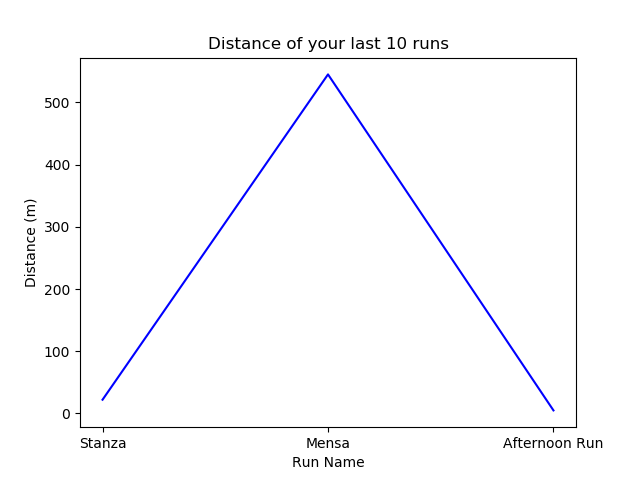
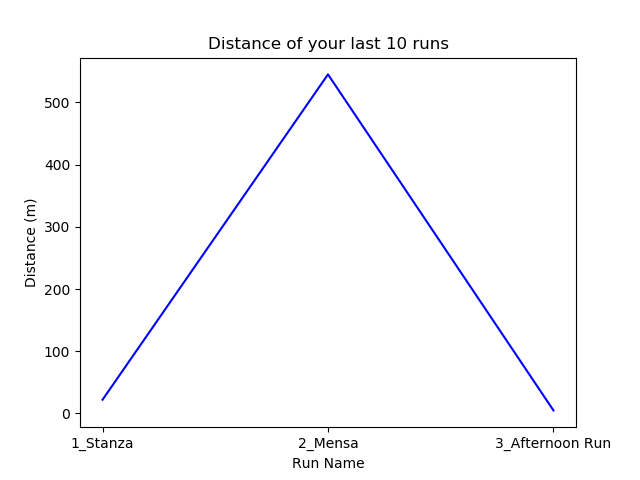
Fixed different run names overlapping in case they have same name by concatenating run names with their ID

Changed region(s): [[0.4375, 0.9062, 0.5625, 0.9688], [0.7812, 0.9062, 0.9688, 0.9375], [0.0938, 0.9062, 0.2188, 0.9375]]

diff --git a/monolith/views/statistics.py b/monolith/views/statistics.py
@@ -34,7 +34,7 @@ def stats():
     average_heartrates = []
     total_elevation_gains = []
     elapsed_times = []
-
+    run_ids = []
 
     runner_id = current_user.id
 
@@ -51,6 +51,12 @@ def stats():
                 total_elevation_gains.append(run.total_elevation_gain)
                 elapsed_times.append(run.elapsed_time)
                 run_names.append(run.name)
+                run_ids.append(run.id)
+
+
+                run_names_concatenated = concatenate_run_name_id(run_names, run_ids)
+
+
                 if(run.average_heartrate != None):
                     average_heartrates.append(run.average_heartrate)
                 #saving into lists completed, now let's get plotting!
@@ -60,11 +66,11 @@ def stats():
                 #reverse acts in place, no need to assign to a new variable!
 
                 x_label = "Run Name"
-                distance_plot_filename = create_plot(runner_id, run_names, distances, x_label, "Distance (m)", "Distance of your last 10 runs", 'distance', 'blue', 1)
-                avg_speed_plot_filename = create_plot(runner_id, run_names, average_speeds, x_label, "Average Speed (Km/h)", "Average speed of your last 10 runs", 'average_speed', 'g', 2)
-                avg_heartrate_plot_filename = create_plot(runner_id, run_names, average_heartrates, x_label, "Heartrate (hrpm)", "Average Heartrate of your last 10 runs", 'average_heartrate', 'orange', 2)
-                elapsed_times_plot_filename = create_plot(runner_id, run_names, elapsed_times, x_label, "Elapsed time (s)", "Duration time of your last 10 runs", 'elapsed_time', 'red', 2)
-                elevation_gain_filename = create_plot(runner_id, run_names, total_elevation_gains, x_label, "Total Elevation Gain (m)", "Total elevation gain of your last 10 runs", 'elevation_gain', 'brown', 2)
+                distance_plot_filename = create_plot(runner_id, run_names_concatenated, distances, x_label, "Distance (m)", "Distance of your last 10 runs", 'distance', 'blue', 1)
+                avg_speed_plot_filename = create_plot(runner_id, run_names_concatenated, average_speeds, x_label, "Average Speed (Km/h)", "Average speed of your last 10 runs", 'average_speed', 'g', 2)
+                avg_heartrate_plot_filename = create_plot(runner_id, run_names_concatenated, average_heartrates, x_label, "Heartrate (hrpm)", "Average Heartrate of your last 10 runs", 'average_heartrate', 'orange', 2)
+                elapsed_times_plot_filename = create_plot(runner_id, run_names_concatenated, elapsed_times, x_label, "Elapsed time (s)", "Duration time of your last 10 runs", 'elapsed_time', 'red', 2)
+                elevation_gain_filename = create_plot(runner_id, run_names_concatenated, total_elevation_gains, x_label, "Total Elevation Gain (m)", "Total elevation gain of your last 10 runs", 'elevation_gain', 'brown', 2)
 
         else:
             #user doesn't have any runs or has not connected the Strava account
@@ -106,3 +112,9 @@ def create_plot(runner_id, x_values, y_values, xlabel, ylabel, title, filename, 
     return filename_output
 
 
+#Used to distinguish runs with the same name
+def concatenate_run_name_id(run_names, run_ids):
+    run_names_concatenated = []
+    for run_id, run_name in zip(run_ids, run_names):
+        run_names_concatenated.append(str(run_id) + "_" + run_name)
+    return run_names_concatenated
